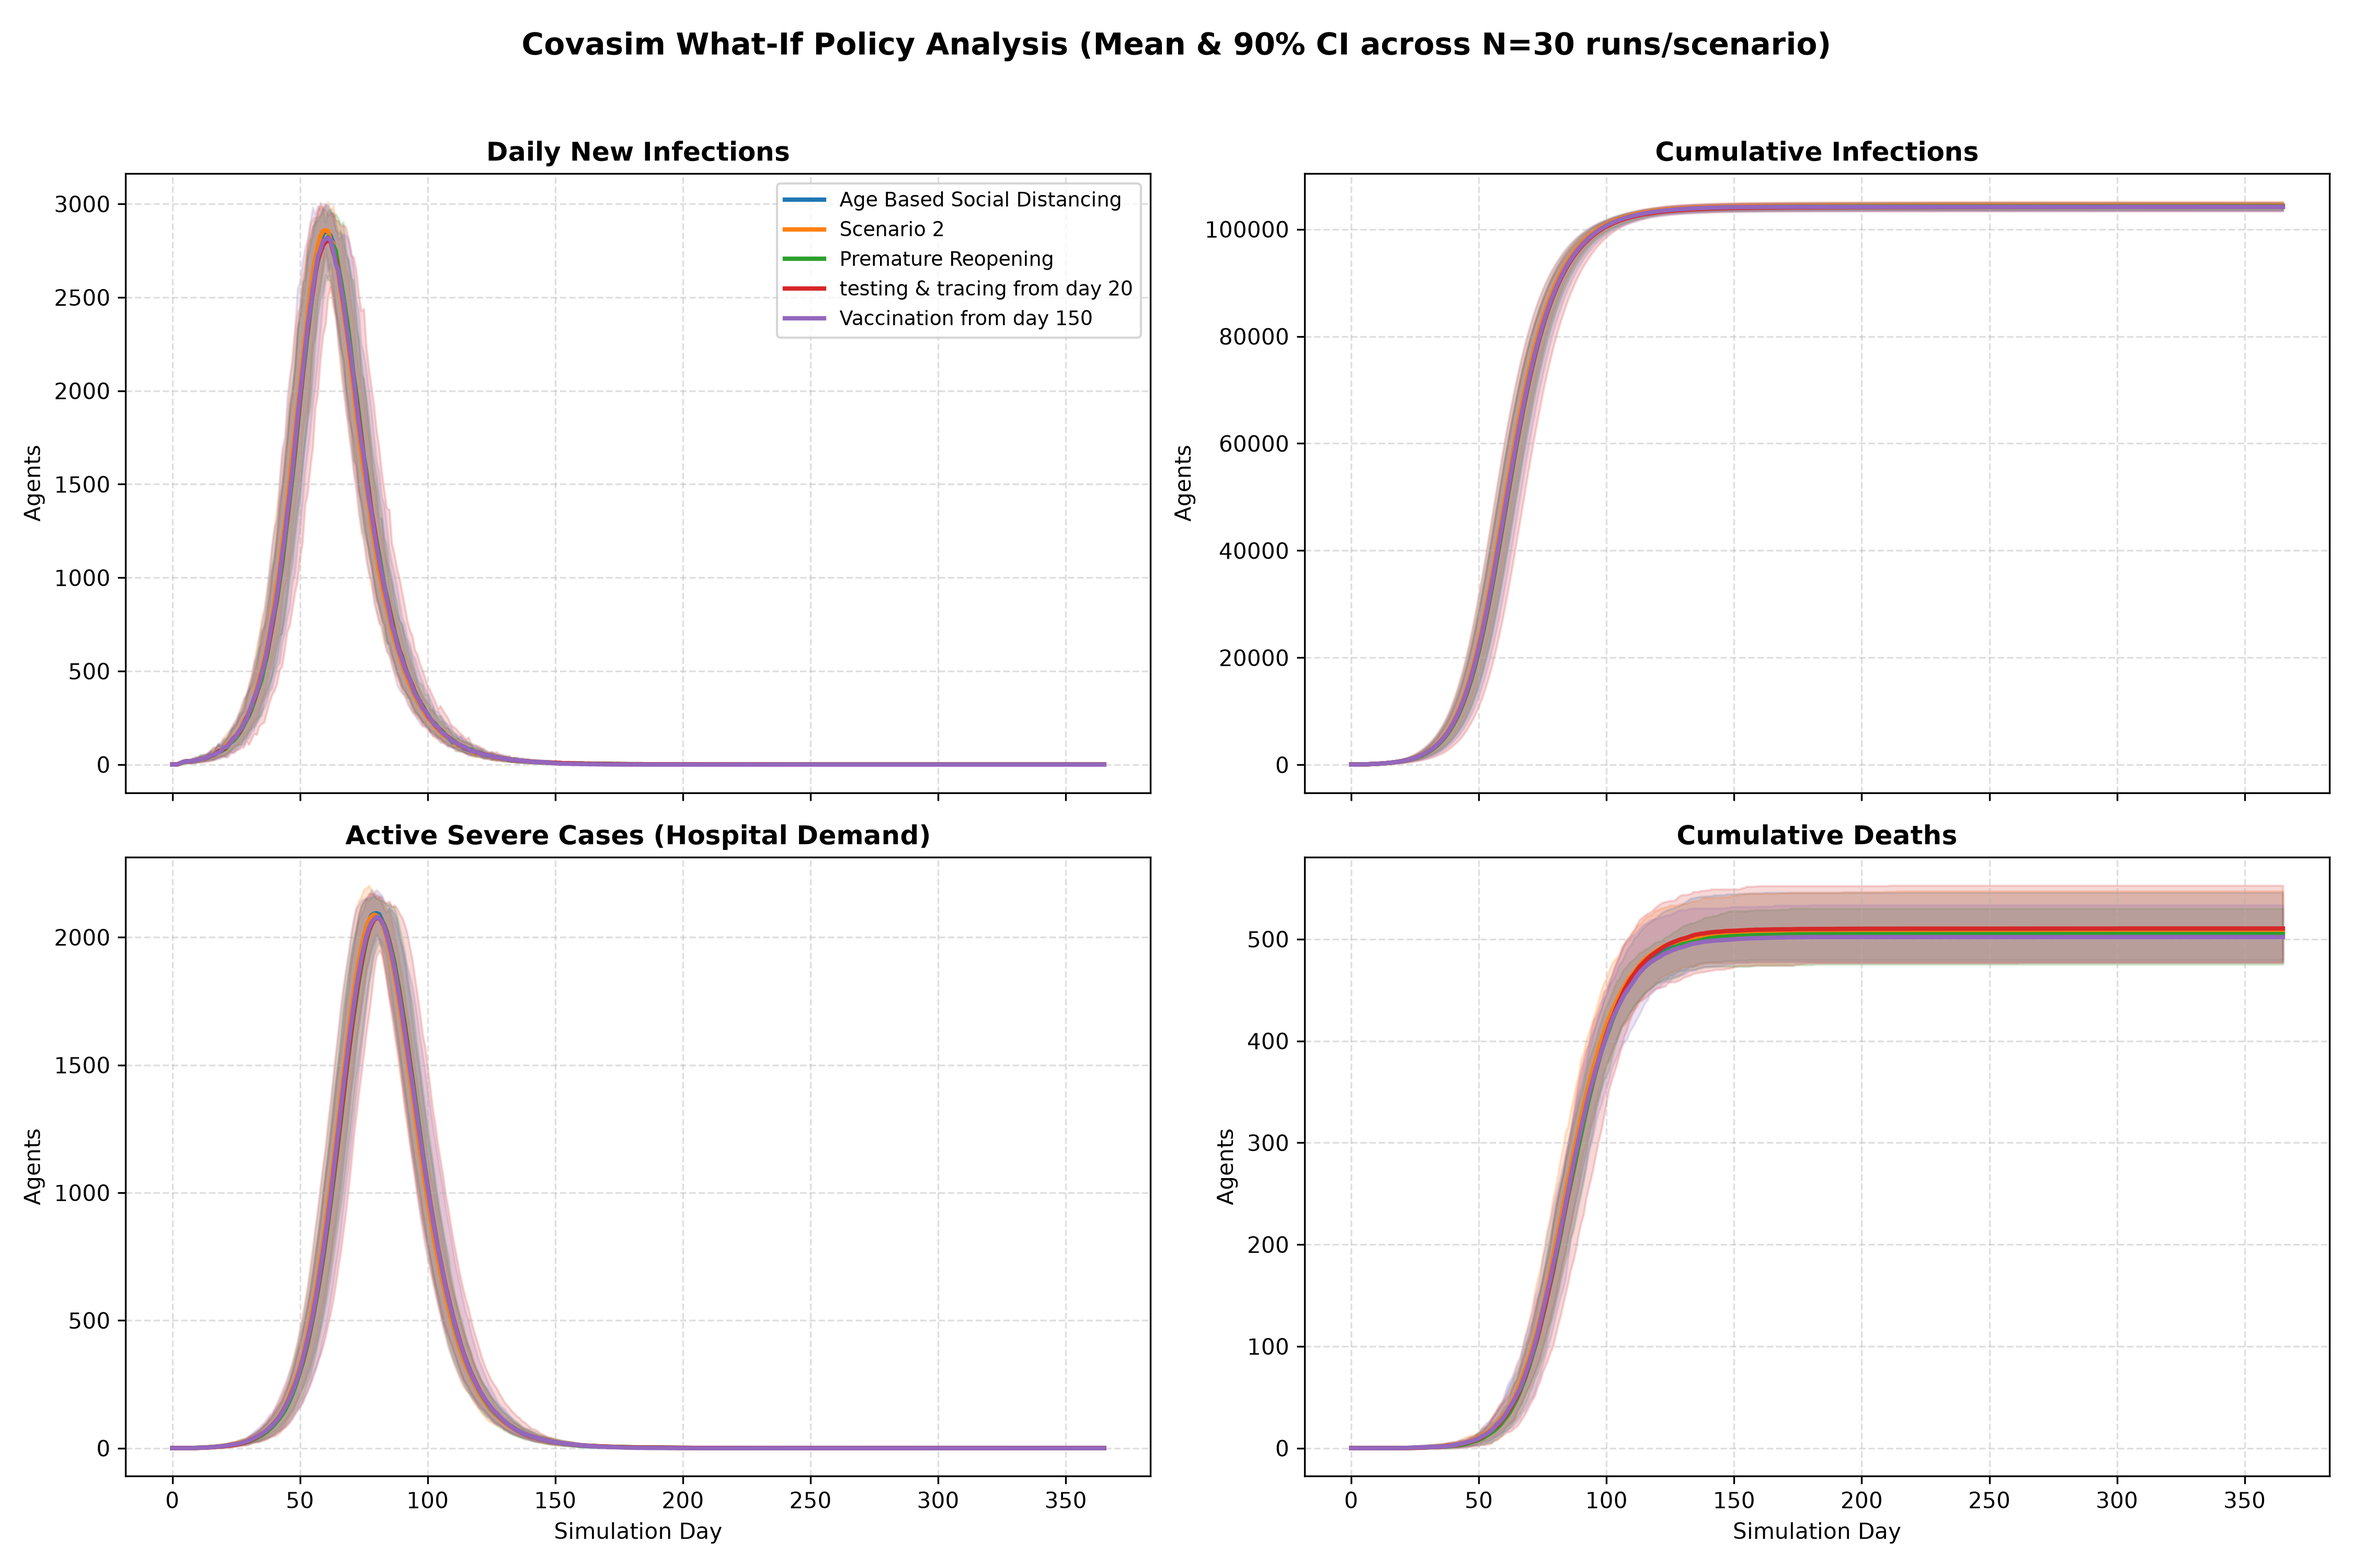
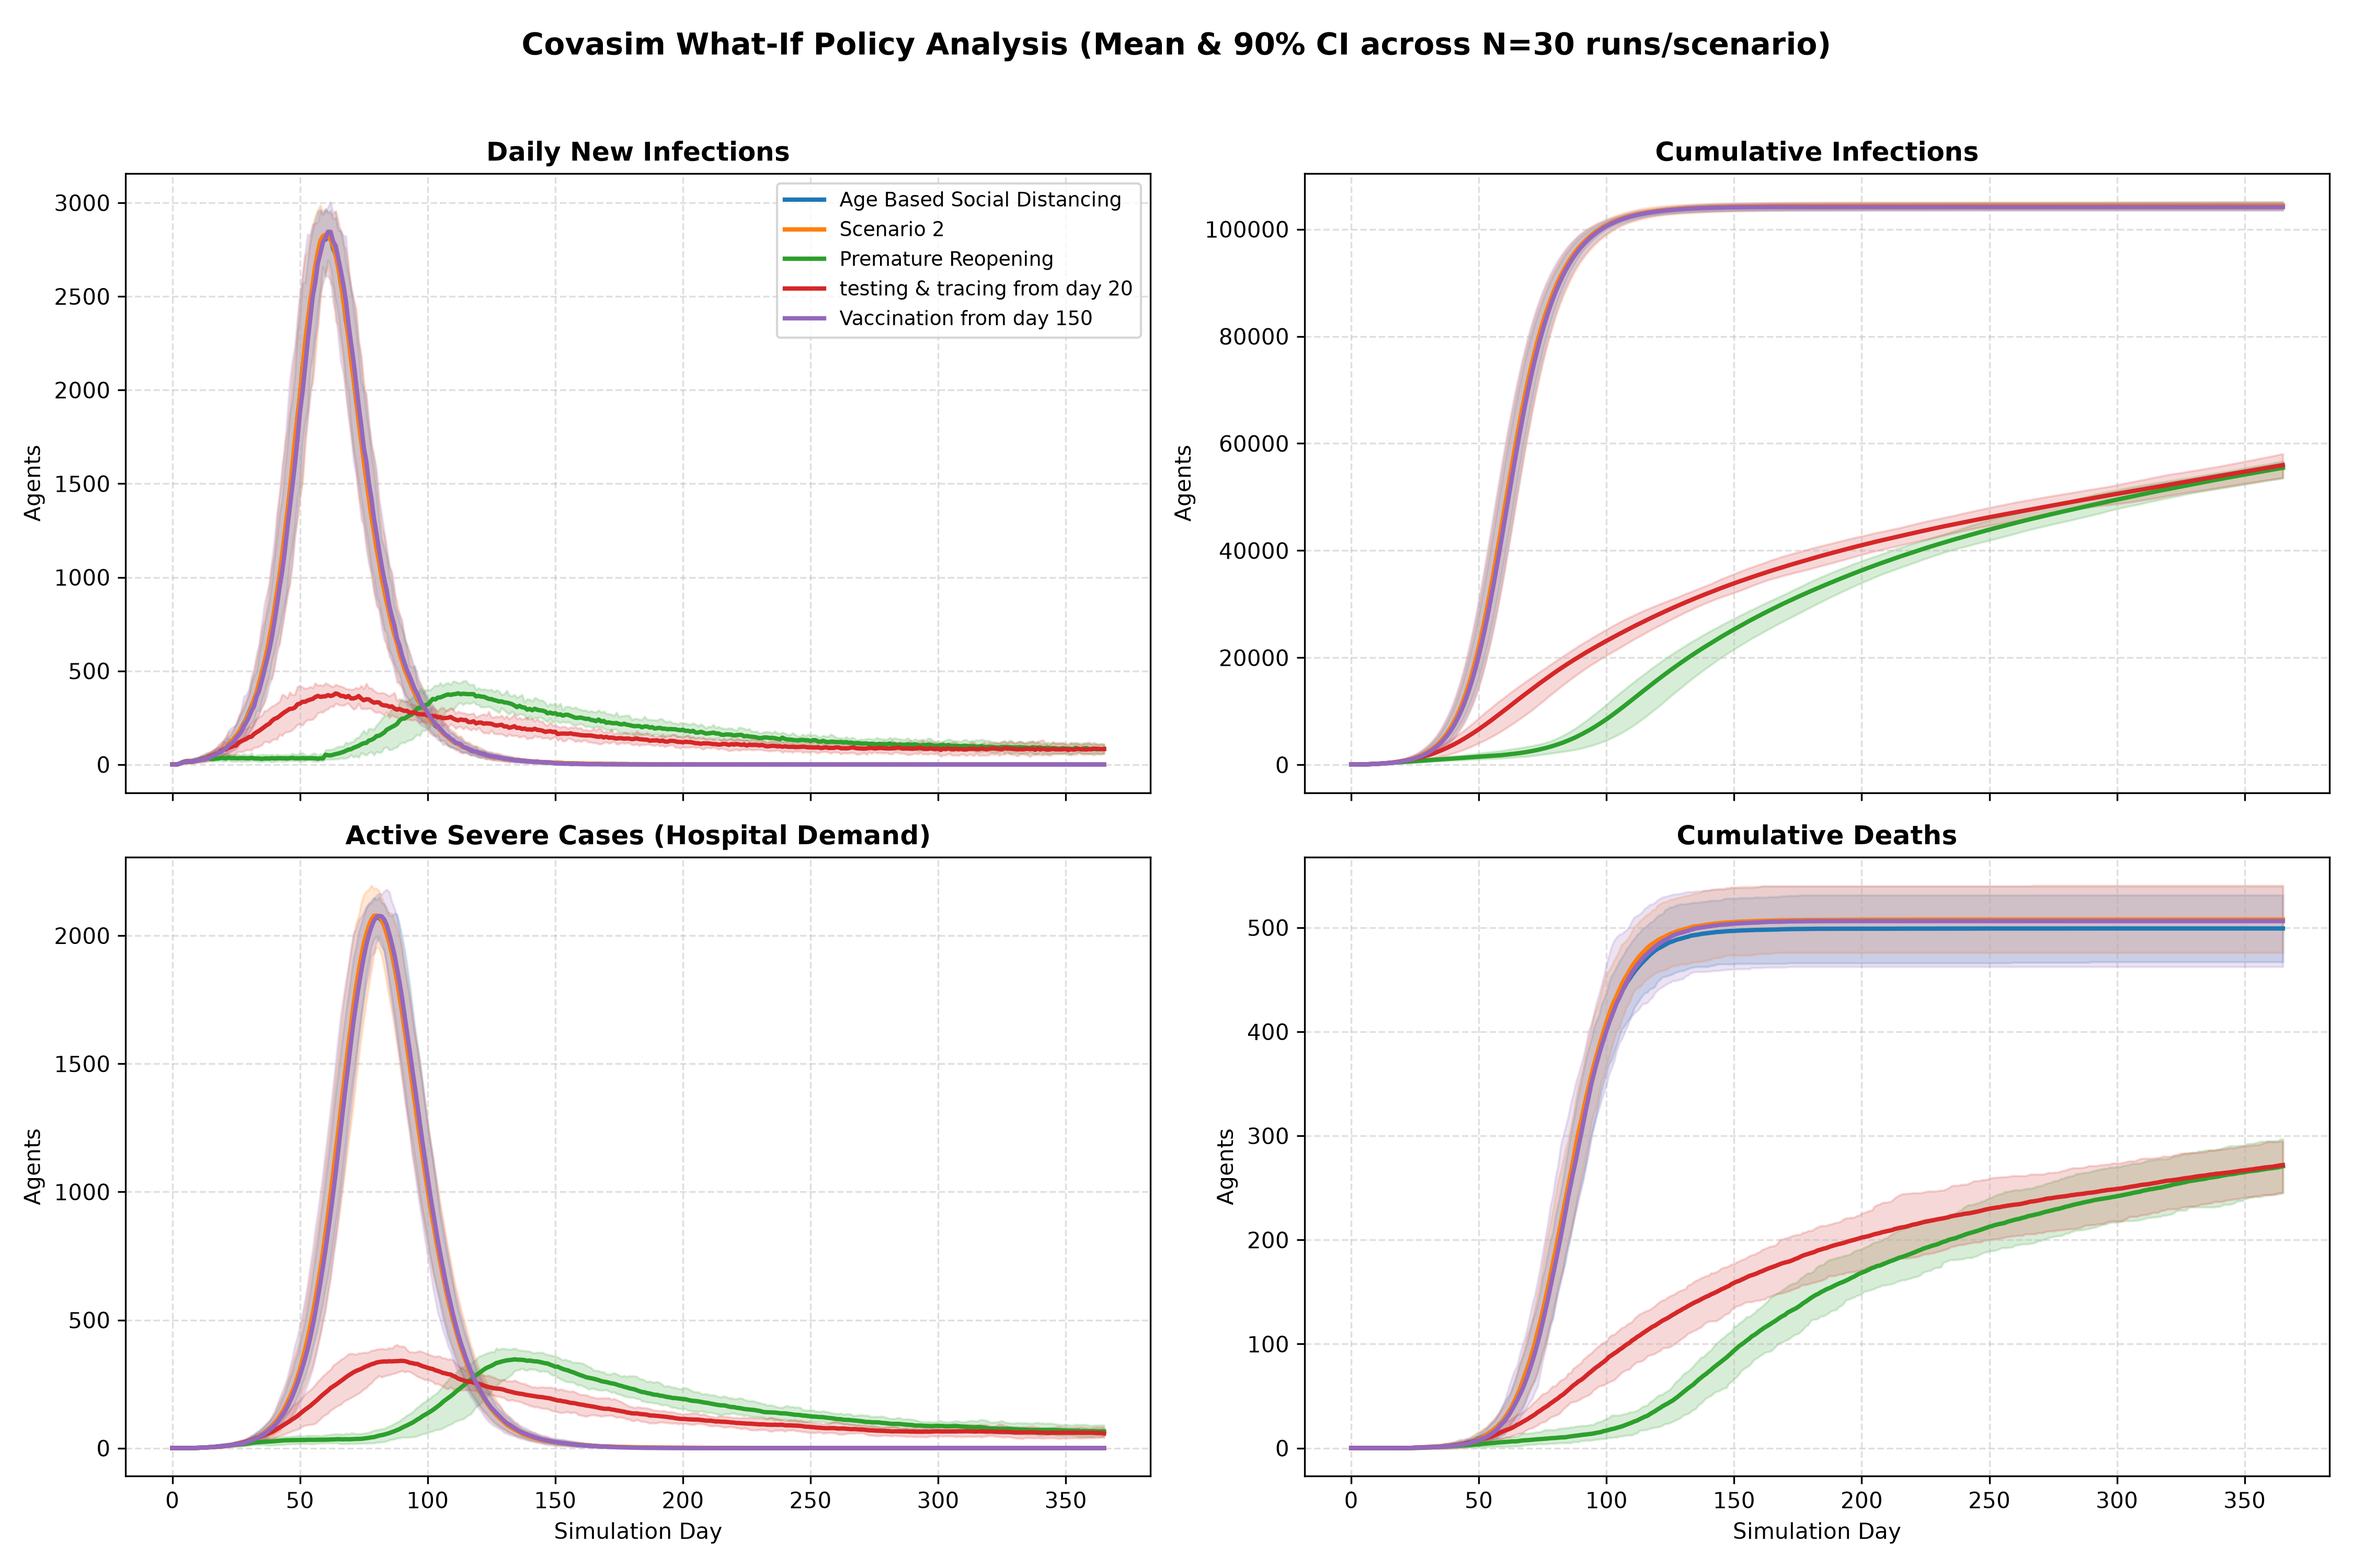
3 scen

diff --git a/M2/scenarios.py b/M2/scenarios.py
@@ -140,8 +140,8 @@ def get_scenarios():
     baseline = []
     scenario_1 = [] #AGE_BASED_SOCIAL_DISTANCING
     scenario_2 = []
-    scenario_3 = [] #PREMATURE_OPENING
-    scenario_4 = [] #[testing(20), tracing(20)]
+    scenario_3 = PREMATURE_OPENING
+    scenario_4 = [testing(20), tracing(20)]
     scenario_5 = [VACCINATION]
     
     return {
